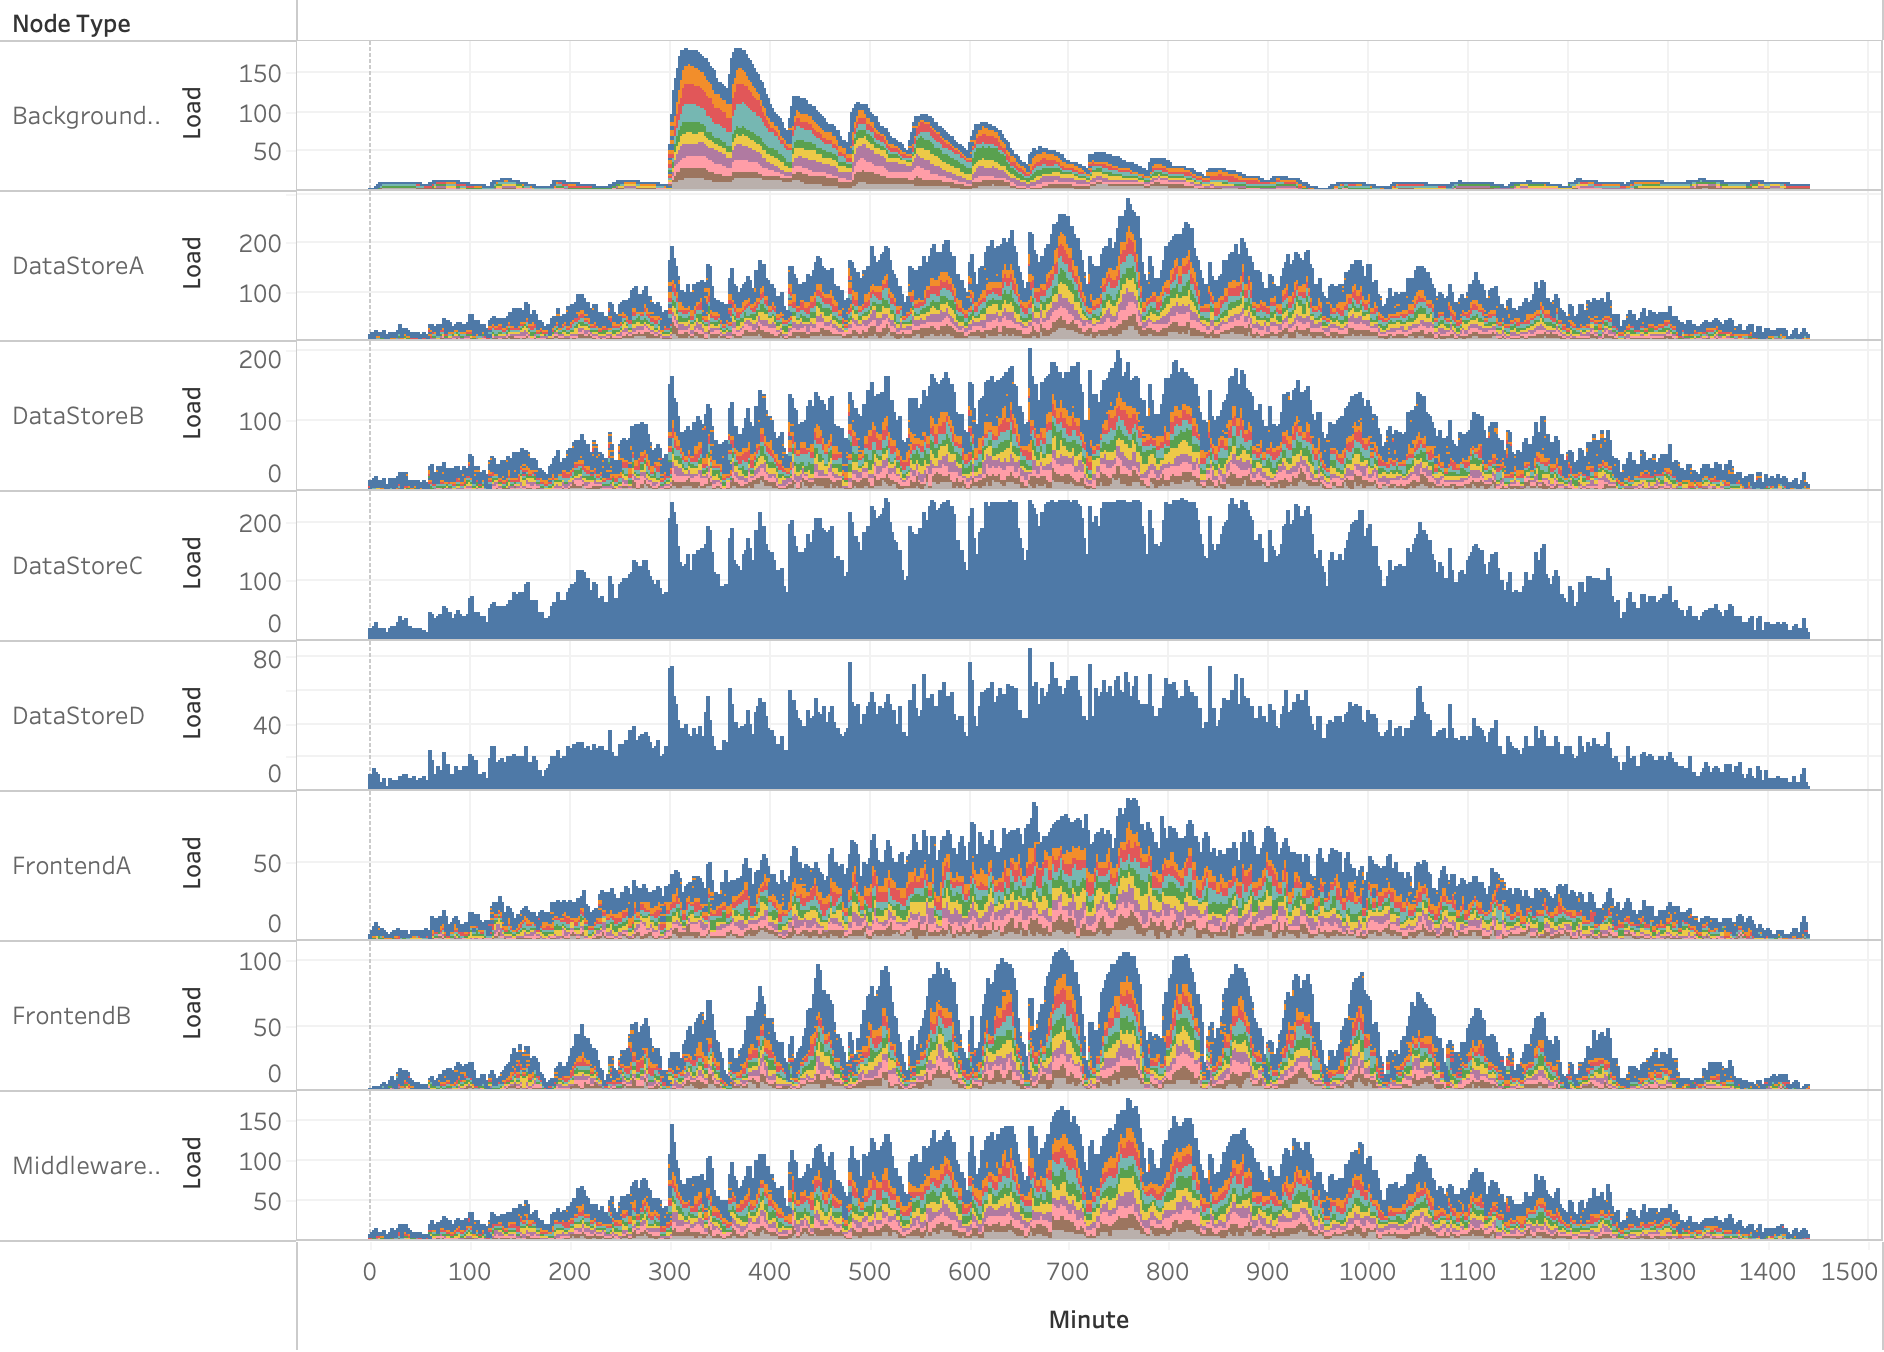
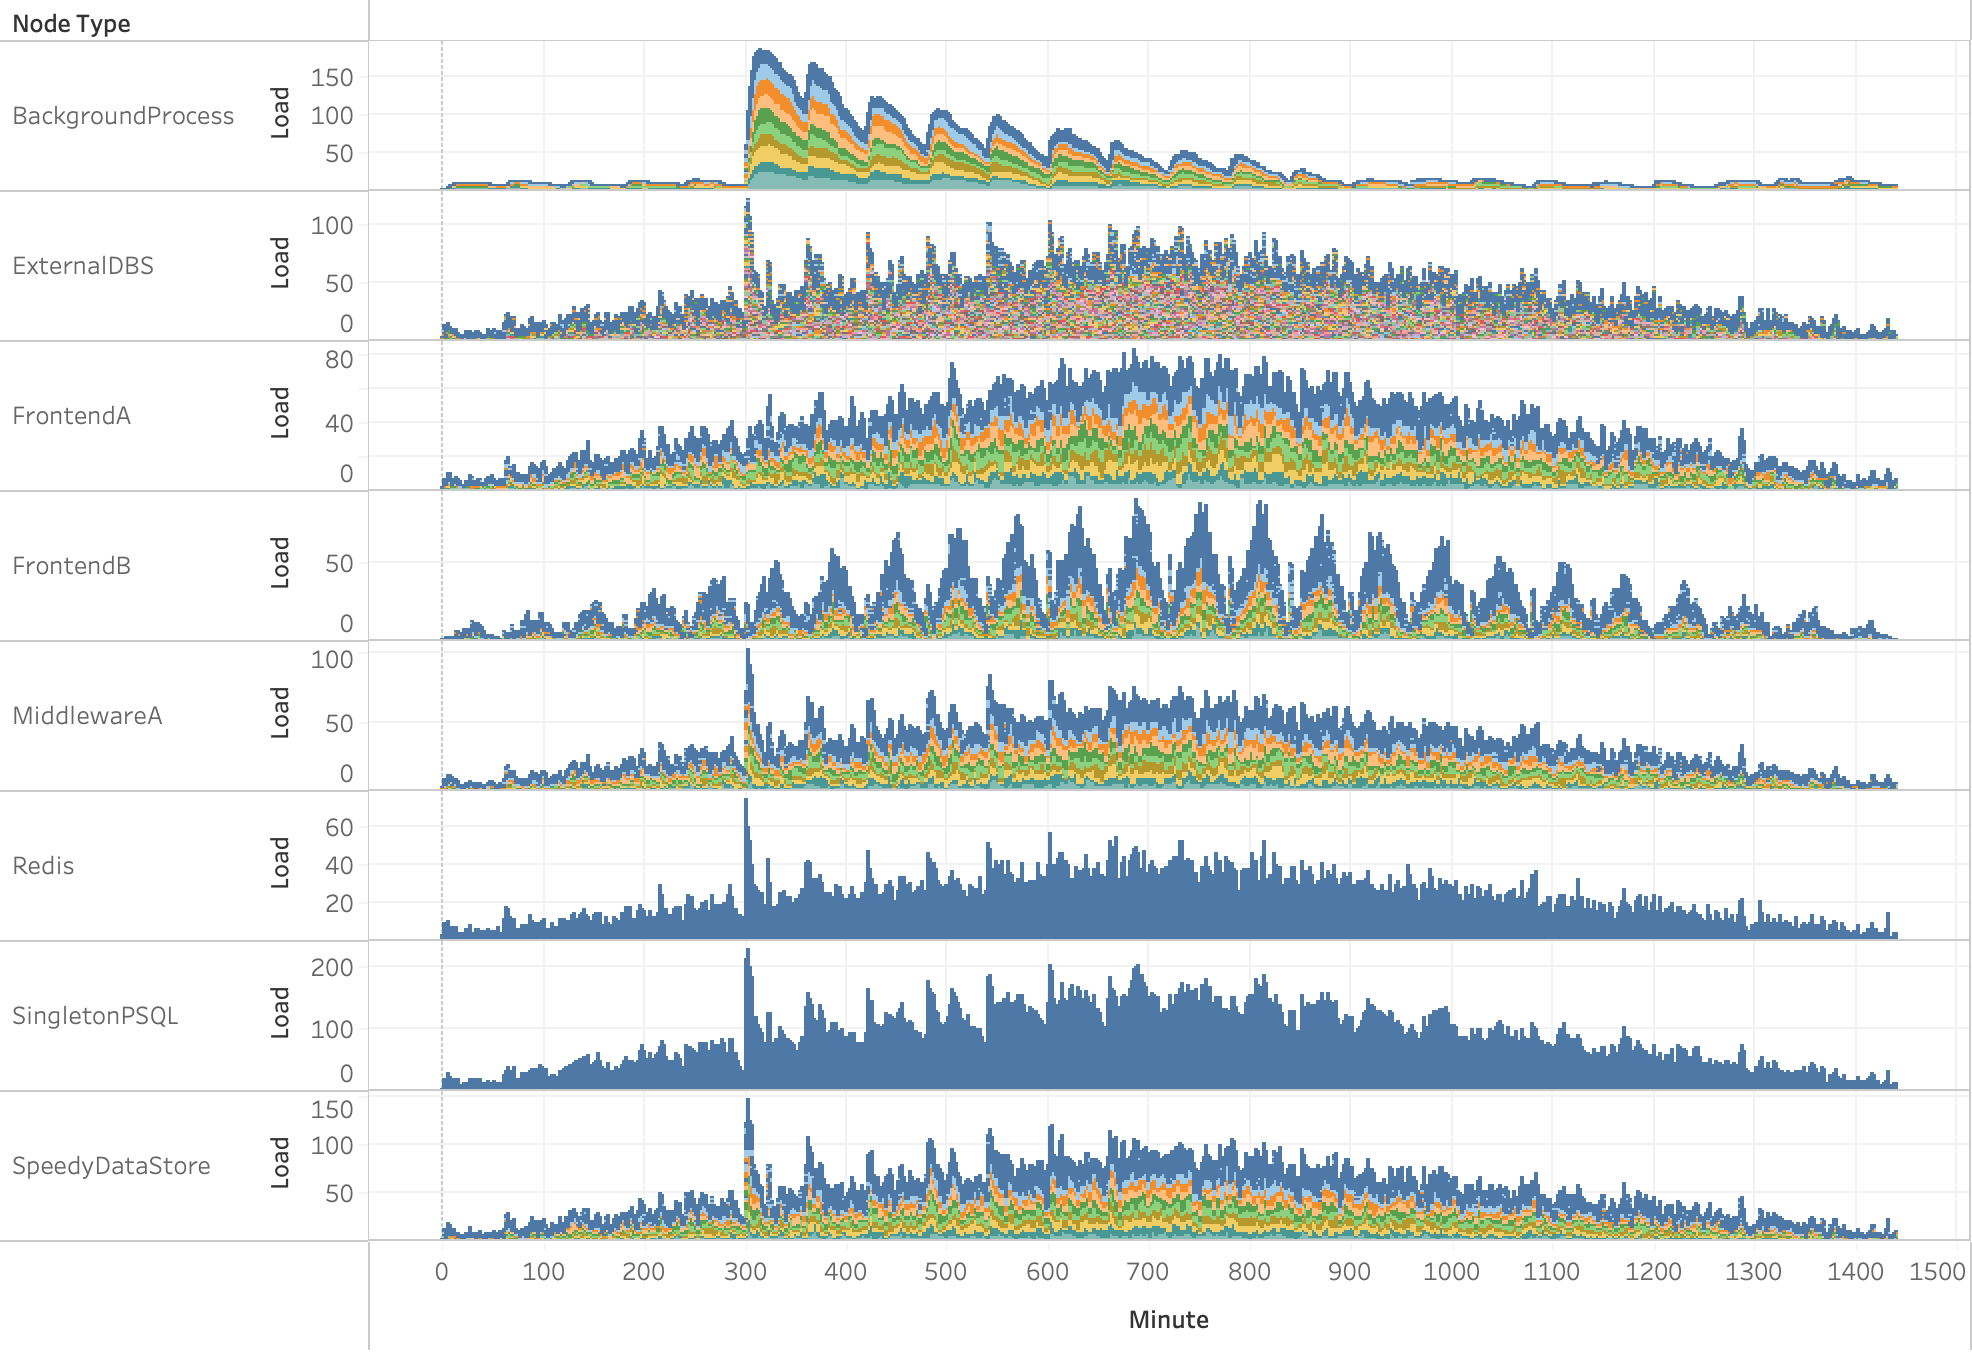
Timeouts and more examples and things

diff --git a/simulator.cpp b/simulator.cpp
@@ -93,7 +93,7 @@ bool tick_request(request &r) {
   assert(!r.node.empty());
   if (r.start_tick > global_clock.current_tick)
     return true; // wait until the actual start time
-
+  
   // cout << "r: " << r.node << " id:" << r.id << " st:" << r.self_time_left <<
   // " nt:" << r.network_time_left << " deps:" << r.dependencies.size() << "
   // instance: " << r.instance_id << " started: " << r.is_started << endl;
@@ -107,6 +107,16 @@ bool tick_request(request &r) {
     instances[r.node][r.instance_id].current_request_count++;
   }
 
+  // Handle timeouts
+  unsigned int timeout = load_models[r.node].timeout;
+  unsigned int timespent = (global_clock.current_tick - r.start_tick) * global_clock.ms_per_tick;
+  if (timespent > timeout) {
+    // Right now we do not do anything but terminate the request
+    // we could send a signal though and terminate upstream requests as well
+    goto term;
+  }
+
+  
   if (!r.dependencies_created) {
     for (const auto d : r.dependencies) {
       assert(!d.empty());
@@ -131,6 +141,8 @@ bool tick_request(request &r) {
   if (r.dependencies.size() > 0)
     return true; // keep waiting for my children
 
+ term:
+  
   // if we got here we might be able to finish the job
   // notify parent
   if (r.is_child) {

diff --git a/configure.cpp b/configure.cpp
@@ -131,6 +131,8 @@ void configure(const char *node) {
           "Node does have dependency configuration");
   assertm(config[node].HasMember("instances"),
           "Node does not specify the number of instances");
+  assertm(config[node].HasMember("timeout"),
+	  "Node does not specify the number of timeout");
   assertm(config[node].HasMember("balanced"),
           "Node does not specify how load is balanced across instances");
   assertm(config[node].HasMember("growthmodel"),
@@ -156,10 +158,12 @@ void configure(const char *node) {
   selftime[string(node)] = self_value;
   load_model load;
   assert(config[node]["instances"].IsInt());
+  assert(config[node]["timeout"].IsInt());
   assert(config[node]["limit"].IsInt());
   load.instances = config[node]["instances"].GetInt();
   load.limit = config[node]["limit"].GetInt();
-
+  load.timeout = config[node]["timeout"].GetInt();
+  
   // How is the response rate impacted by concurrent requests
   if (strcmp(config[node]["growthmodel"].GetString(), "linear") == 0) {
     load.model = growth_model::LINEAR;

diff --git a/include/bte.h b/include/bte.h
@@ -26,6 +26,7 @@ typedef enum {
 typedef struct {
   unsigned int instances;
   unsigned int limit;
+  unsigned int timeout;
   growth_model model;
   load_balance_model balance;
 } load_model;
@@ -65,6 +66,7 @@ typedef struct {
   std::string node;
   unsigned int instance_id;
   unsigned int current_request_count;
+  unsigned int timeouts;
 } instance;
 
 typedef struct {

diff --git a/README.md b/README.md
@@ -21,15 +21,18 @@ This project uses rapidjson.
 The tool will print some output on it's configuration and then begin running the simulation. The csv file will contain data with the tick, node type, instance id of that node, and the current number of requests on that instance.
 
 ### Examples:
+Imagine the organically-grown, no preservatives cluster of something below. Why does the SpeedyDataStore talk to the Singleton PostgreSQL? No one knows; but it was the right decision at the time. All the load comes in through a background process and two different frontends. 
+![](example.png)
+
 #### **example_ok.json** 
-A cluster with some cycles in the dependencies which slowly ramps up load and then down. 
+A cluster with some cycles in the dependencies which slowly ramps up load and then down. The Background jobs have a geometric distribution on the hour; meaning that most of the jobs are started within the first 15 minutes. Frontend A has a uniform load distribution coming in but Frontend B has a normal distribution.
+
+Each node type has different latencies, self-time latencies, timeouts and cache hit rates.
 
 In the image below each node type is a row and the colors represent individual instances. The y axis is the number of current requests. When a large background operation occurs at around minute 300 we see that cascade through the cluster.
 ![](example_ok.png)
 #### **example_degenerate.json** 
-Same as example_ok.json but one of the common dependencies has been changed to have 1/10th the capacity. This simulation will not complete for a while, but you can stop it at any time.
-
-Here the single instance of DataStoreC gets saturated; which results in the latency issues and requests building up across the cluster.
+Same as example_ok.json but we cut the capacity of the SingletonPSQL by hal f which gets saturated; which results in the latency issues and requests building up across the cluster.
 
 ![](example_degenerate.png)
 
@@ -44,15 +47,16 @@ A node type is defined with an object such as
 ```
 "NodeTypeA": {
         "instances": 10,          // number of this type
+        "timeout": 10000,          // request timeout in ms
         "balanced": "content",    // load balancing across instances
         "growthmodel": "linear",  // capacity growth model
         "limit": 10,              // capacity limit
         "load": {                 // external load to generate per hour
-        	  "distribution": "geometric",
-            "requests": [...],
-            "users"   : [...],
-            "content" : [...],
-            "sites"   : [...]
+        	  "distribution": "geometric",  // distribution within hour
+            "requests": [...],    // number of requests per hour
+            "users"   : [...],    // maximum number of users in hour
+            "content" : [...],    // max "content" per hour
+            "sites"   : [...].    // max "sites" per hour
         },
         "cache": { "dist": "normal", "mean": 50, "stddev": 25 },
         "self_time": { "dist": "uniform", "min": 10, "max": 250 },
@@ -65,11 +69,17 @@ A node type is defined with an object such as
 ```
 
 * `instances` defines the number of instances of this node type
+* `timeout` defines the timeout of requests on an instance, in ms
 * `balanced` defines how requests are balanced across those instances. The options are `random`, `content`, `sites`, `users`
 * `growthmodel` defines how capacity on an instance is regulated as load changes. Currently the options are simple `linear` and `logistic` models
 * `limit` is used by the growth model to set the current capacity
-* `load` is used by the load drivers within the cluster to define the requests and the maximum distinct users, content, and sites to generate per hour. Each of these arrays should be of length 24 (for each hour of the day) and integers. You must specify how the load is distributed throughout the hour. The choices are `geometric` where most load is distributed at the start of the hour, `uniform` where it is distributed uniformly throughout the hour, and `normal` which is a normal distribution around the 30 minute mark. The parameterization of these distributions is fixed.
-* `cache` defines the probability that the cache will be hit for a request. you specify a distribution (`uniform` or `normal`). A value above 50 will use the cache, so the distributions should be sensibly configured.
+* `load` is used by the load drivers within the cluster to define the requests and the maximum distinct users, content, and sites to generate per hour. Each of these arrays should be of length 24 (for each hour of the day) and integers. 
+	* **Distribution:** You must specify how the load is distributed throughout the hour. The parameterization of these distributions is fixed. The choices are:
+		*  `geometric` where most load is distributed at the start of the hour
+		*  `uniform` where it is distributed uniformly throughout the hour
+		*  `normal` which is a normal distribution around the 30 minute mark.  
+	* The integers in the array are related by `sites < users < content < requests`
+* `cache` defines the probability that the cache will be hit for a request. you specify a distribution (`uniform` or `normal`). A value above 50 will use the cache, so the distributions should be sensibly configured to fall within this range.
 * `self_time` defines the time spent servicing the request by the instance itself. It is specified in a distribution of milliseconds in either a `uniform` or `normal` distribution  or `geometric`.
 * `network_latency` is similar to `self_time`, but cache hits will not impact it.
 * `dependencies` is a list of node types this node depends on and the probability that a particular dependency will be used.
@@ -85,8 +95,5 @@ The std c++ [libraries ](https://www.cplusplus.com/reference/random/normal_distr
 The output of the csv can be used with the visualization tool of your choice. A Tableau workbook is provided to help (used above).
 
 ## Todo
-* Network Timeouts
-* Request Timeouts
 * Random errors
 * Better capacity growth models
-* Non-uniform load generator
